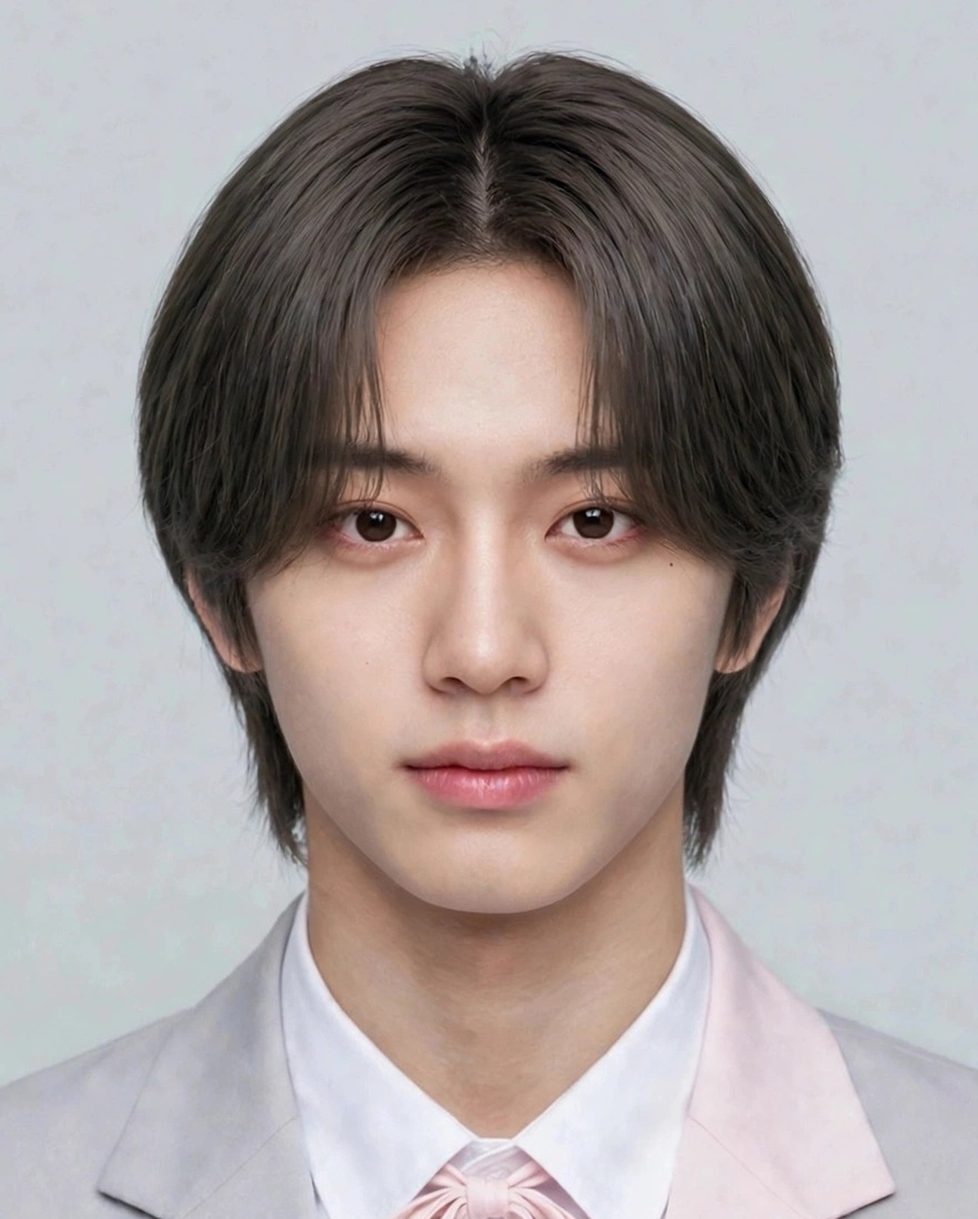
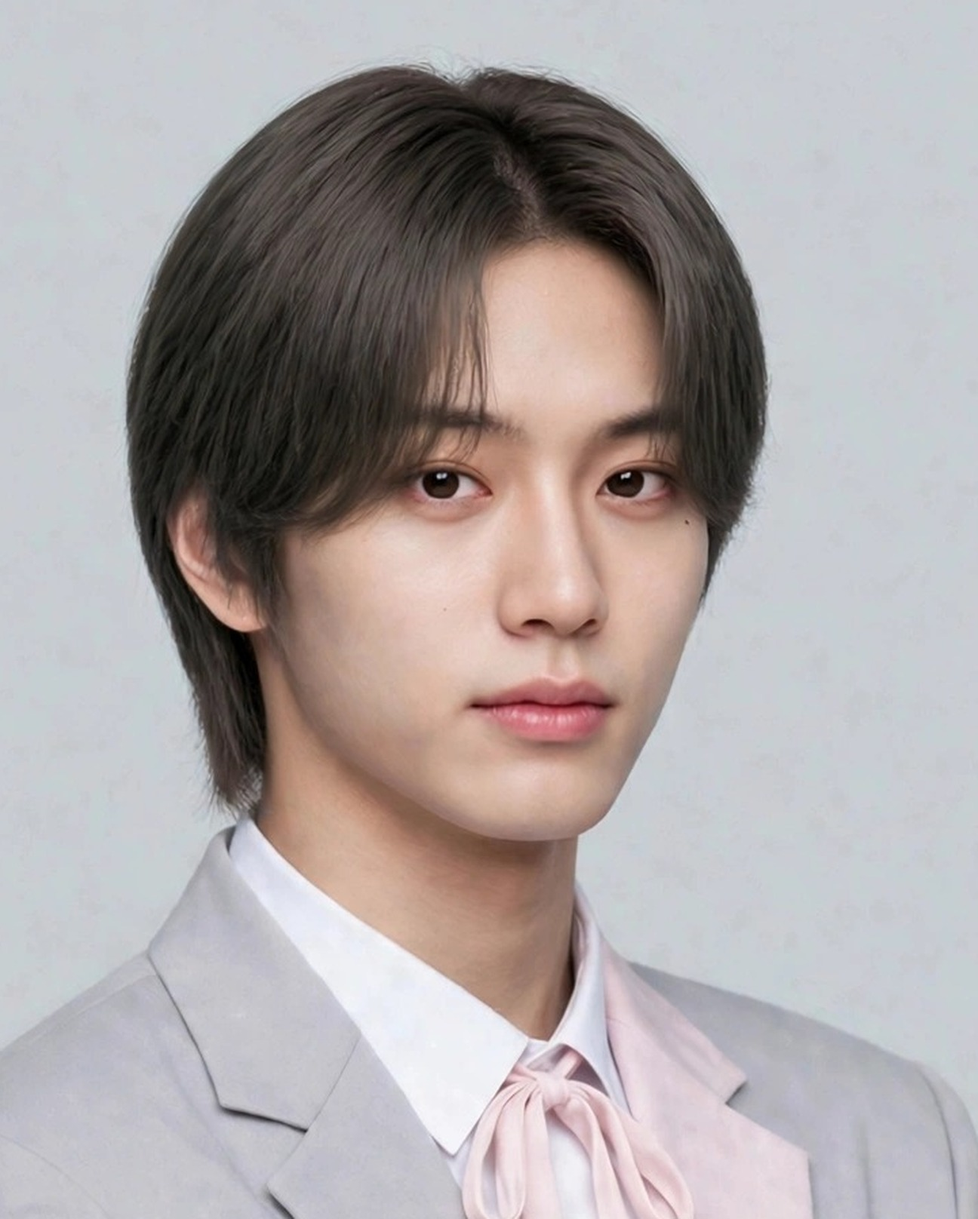
v152: 全時代のプロフィールをポーズ付きに作り直し（2019=ガッツポーズ全身／2021=頬ハート膝上／2023=腕組みウエスト上）。顔は新基準ラインを維持、寄りクロップ6点も新全身から頭部57〜60%で再作成。旧画像は hidden_files/nao-pose-backup/ に保管

diff --git a/index.html b/index.html
@@ -732,7 +732,7 @@ body{font-family:-apple-system,"Hiragino Kaku Gothic ProN","Noto Sans JP",sans-s
 <script>
 "use strict";
 const $=s=>document.querySelector(s);
-const VER="v151";
+const VER="v152";
 /* ============ state ============ */
 const DEF={idx:0,started:false,consented:false,soundOn:true,
  g:{iwakan:0,bare:0,todoita:0,uta:8,dance:4,ishi:50},
@@ -2472,7 +2472,7 @@ function renderSettings(tab){setTab=tab;document.querySelectorAll("#set-tabs but
  <div class="srow"><span>到達した結末</span><span class="sv">${S.trueEnd?"TRUE END ― 現在":S.normalEnd?"END ― 通常現在":S.loopBad?"BAD END ― ループ継続":S.bareEnd?"END ― 秘密バレIF":S.ridatsuEnd?"END ― 離脱した現在":"（まだ到達していません）"}</span></div>
  <div class="srow"><span>サウンド</span><span class="sv"><button id="snd-btn" style="background:${S.soundOn!==false?"#17172a":"#c6c6d4"};color:#fff;border:none;border-radius:999px;padding:6px 18px;font-size:12.5px;font-weight:700;cursor:pointer">${S.soundOn!==false?"ON":"OFF"}</button></span></div>
  <div class="srow"><span>フィクション</span><span class="sv">実在の記録をもとにした創作です</span></div>
- <div class="srow"><span>アップデート</span><span class="sv">v16 サウンドと画面遷移／v17 差分再演REPLAYとDiff時代別表示／v18 現在の小さな変化／v19 トークのスレッドとフリーチャット／v20・v23・v32 場面カットの追加／v21 日常回（食堂の夜・売店の夜）／v22 番組アプリの情報デザイン／v24 ホーム背景の時代連動と進行％／v25 タイトルのスライドショー／v26 彼の画面のカウンタ／v27 ロック画面の通知スタック／v28 写真の全画面ビューア／v30 章ごとの記録カード／v31 フィナーレ直前の彼の視点／v33 フリーチャットの時代別応答／v34 投票レシート／v35 ミッション進捗バー／v36 ゲージの危険域表示／v37 選んだ記録の判別表示／v38 台帳の時代別表示／v39 Keepsakeの時代バッジ／v41 章名つきロック画面／v42 トークの新着バッジ／v43 名簿の詳細パネル／v44 写真のスワイプ送り／v45 BGMの時代連動／v46 順位・差分の専用SE／v47 長押し早送り／v48 章セレクト／v50 REPLAY再演の追加／v52 日常回（コンビニの夜）／v53 タイトル通知のセーブ連動／v54 アプリアイコンのバッジ／v55 主人公の正式名「三浦渚央」と2019プロフィールの新フェイス差し替え／v56〜v59 プロフィール・場面カットの新フェイス再生成／v60 カード画角の統一（頭部55〜60%）と三浦渚央の順位表示／v61 名簿メモへの順位追記と凡例／v62 周B順位発表の彼の視点／v63 ストーリーバナーのサムネ時代連動／v64 タイトルに正式名／v65 ロック画面に順位通知／v66 情報タブに順位の記録／v67 順位行の文字色修正／v68 現在の小さな変化（順位の残響）／v69 写真メモに順位結果／v70 節目 ― 全アプリ走査／v71 フリーチャットの話題追加／v72 トークのチップ追加／v73・v74 順位タブの空状態整理／v75 順位変動のDiff記録／v76 節目 ― 全アプリ走査／v77 2021周A・初回ステージ後に彼の画面を追加／v78 2023周A・ファンカム章に彼の視点（インライン）を追加／v79 2019周A・順位発表式に彼の視点（インライン）を追加／v80 2023周A・VERY NICE本番前に彼の視点（インライン）を追加／v81 2023周A・寮の夜に彼の視点（インライン）を追加／v82 2019周A・届くはずのなかった手紙に彼の視点（インライン）を追加／v83 フリーチャットの話題拡充（2019専用プール＋新キーワード6種＋チップ追加）／v84 周Aの彼の記憶の線引きで全監査（2021・2023到着場面と彼の画面3件を連続した同僚の前提に書き換え）／v85 2019周A・練習室の夜に彼の視点（インライン）を追加／v86 2021周A・寮の一夜に彼の視点（インライン）を追加／v87 2023周A・コンビニの夜に彼の視点（インライン）を追加／v88 台帳・Keepsake・Diffの時代分類を修正（NXD期グループ新設、誤分類6件を是正）／v89 場面カット追加（2023順位発表の夜・face2基準で新規生成）／v90 場面カット追加（2021ファイナルの夜・face2基準で新規生成）／v91 節目 ― 全アプリ走査／v92 日常回「自販機の夜」（2023・周B）を追加／v93 2019周A・レベル分け評価に彼の視点（インライン）を追加／v94 写真アプリに時代別グルーピング（見出し＋枚数）を追加／v95 場面カット追加（NXD期・夜の練習室、face2基準で新規生成）／v96 フリーチャットの時代別プールを拡充（各時代＋2件）／v97 2019周B・発覚に彼の視点（インライン）を追加／v98 2021周B・再会に彼の視点（インライン）を追加／v99 2023周B・発覚に彼の視点（インライン）を追加／v100 節目 ― 全編通しプレイ検証／v101 効果音の配線追加（台帳・Keepsake・彼の視点）／v102 トークに彼のメッセージを3件追加／v103 タイトルのスライドショー拡充（8枚）とホーム背景のNXD期差し替え／v104 2023周B・再会に彼の視点（インライン）を追加／v105 2021周B・売店の夜に彼の視点（インライン）を追加／v106 NXD期・周B「移籍の決断」に彼の視点（インライン）を追加／v107 2023周B・共同作戦に彼の視点（インライン）を追加／v108 2019周B・共同作戦（ツカメ対策）に彼の視点（インライン）を追加／v109 2021周B・共同作戦に彼の視点（インライン）を追加／v110 NXD期・周B「延期の季節 ― 二度目」に彼の視点（インライン）を追加／v111 フリーチャット拡充（キーワード応答3種・チップ2件・現在編プール拡充）／v112 節目 ― 全アプリ走査／v113 2023周B・自販機の夜に彼の視点（インライン）を追加／v114 2019周A・食堂の夜に彼の視点（インライン）を追加／v115 2021周B・順位発表の締めに彼の視点（インライン）を追加／v116 設計ドキュメントの実装状況を更新／v117 場面カット追加（2019食堂の夜・face2基準で新規生成）／v118 場面カット追加（2021売店の夜・face2基準で新規生成）／v119 場面カット追加（2023コンビニの夜・face2基準で新規生成）／v120 背景の差し替え（現在編の冒頭とソロデビューの場面）／v121 節目 ― 全編通しプレイ検証（v101〜v120の追加後）／v122 画像出典メモ（IMAGE_SOURCES.md）に新規カット6点とface2基準を追記／v123 READMEの状態表記を現行（本編完結・公開中）に更新／v124 視覚QAで発見した順位タブの防御的修正（順位値の欠損時に最低ラインへフォールバック）／v125 節目 ― 全画面の視覚QA（撮影確認）／v126 節目 ― 別エンディング到達検証（秘密バレIF・離脱した現在）／v127 節目 ― 全5エンディング到達検証の完了（通常現在・ループ継続BADを追加確認）／v128 設計ドキュメントの実装状況に最終検証結果を追記／v129 READMEの現行版表記を更新／v130 生成メタファイルを .gitignore に追加して作業ツリーを整理／v131 「届くはずのなかった手紙」に背景を設定（食堂カットの引き継ぎを解消）／v132 フリーチャットの応答拡充（キーワード応答8種・時代別プール各+2件・チップ2件を追加）／v133 仕上げのUI調整（ホームのアプリアイコンのラベルの可読性を向上、ストーリー画面のゲージチップを均等な3+3配置に整形）／v134 フリーチャットに語学の話題を追加（中国語・韓国語・英語へのキーワード応答）／v135 節目 ― 朝まで改修の最終版（全アプリ走査・ドキュメント同期）／v136 トークを実物化（1相手=1スレッドに集約・未読バッジ・プレビュー・実物時刻・日付チップ・自分の送信への既読表示。仕組みは『現役アイドル、Tinderやってた件』のLINEと『キープ管理中！』の未読管理から移植）／v137 2021・2023の渚央プロフィールを制服版に統一（創造営の紺制服／ボイプラの淡グレー制服。名簿・順位・パネル・背景・写真の参照を全て profile-uniform 系へ）／v138 ロック画面とホームの実物化（主通知の送信者を実アプリ名にし未読トークがあれば最新メッセージを表示、日付を月日＋曜日の実物形式に、ホームと写真の操作説明文を撤去）／v139 トークをTinder版（v462）LINEと実測比較して一致（バブルの角・色・文字サイズ、入力欄、送信ボタン、日付チップ、一覧の行構成と検索ボックス、スレッドヘッダーのアバター）／v140 トークにLINEアプリのシェルを移植（下部タブバー＋タブ画面を新設。タブの数・並び・切替挙動はTinder版LINEと同一で、ホームタブは三浦渚央のプロフィール＋届いた応援カード＋友だちリストのパネル、ニュースは番組アプリ、その他は設定・記録へ接続）／v141 ロック画面の進化（時計を88px・太字に、通知カードをblur20px＋saturateの実物仕様にして幅を統一、スタック通知のアイコンをアプリ別SVGに分けて出現をスタッガード化。ステータスバーと電池％を追加し、壁紙を時代連動＋緩やかなズームに。下部のライトは白フラッシュが光る実働ボタンに、カメラは写真アプリへ直行。通知はタップで該当アプリ・記録へ遷移）／v142 ホーム画面の進化（Tinder版ホームのページ構成を移植：飾りだったドットを実働の2ページ化にし、横スワイプとドットタップで切替。2ページ目に物語暦のカレンダーウィジェットと時代のカットが切り替わる写真ウィジェットを新設し、記録サマリと次のミッションを移設。ドットの横に検索ピルを追加し、アプリ・記録を検索して直接開けるシートを実装。下部にガラスのドック（トーク／写真／番組アプリ／設定・記録、バッジ連動）を追加。ステータスバーに電池％、壁紙に緩やかなズーム）／v143 ロック画面の通知スタックの隙間を修正（ベースCSSの上マージン34pxがスタック内の通知にも効いて間隔が42pxに広がっていたのを、実物どおり8pxに統一。あわせて通知領域を時計の下〜下部ボタンの上のスクロール領域にして、通知が多くてもライト／カメラのボタンやヒント文字に重ならないようにした）／v144 写真アプリの進化（『現役アイドル、Tinderやってた件』の写真アプリから移植：2列カード型だったグリッドを3列・隙間2px・正方形の実物仕様にし、時代見出し＋枚数のヘッダーと上部のピル型タブ（すべて／時代別で絞り込み）を新設。ビューアはお気に入り（セーブに保持、グリッドにもハート表示）とスライドショーを追加し、送りを循環式から端で止まるクランプ式に変更、キャプション＋差分メモ＋時代＋通し番号のメタ表示とキー操作に対応。複数選択モード（最大4枚）からコラージュを作成でき、ロック画面の壁紙にも設定できる（時代連動に戻す導線つき）。中身の時代別カットと枚数は従来どおり）／v145 アプリアイコンをTinder版の様式に統一（アイコンを全面SVG化し、背景レイヤーまで1枚に収める方式へ。トーク＝LINE・写真・設定・記録はTinder版と同型のアイコンに、番組アプリは金の縦グラデーション＋王冠のグリフで同水準に。アイコンの角丸と影もTinder版の実測値に一致。あわせてラベル用ピルのCSSがドックのアイコンにも漏れて円形になっていた不具合を修正し、ドックでもグリッドと同じ角丸アイコンが並ぶようにした）／v147 渚央の顔を最終基準（本人の写真由来の顔＋クールな髪型）へ差し替え開始。2023編のプロフィール（基準画像そのものへ差し替え、カード用クロップも新基準で作成）と場面カット全8点を基準顔で再生成／v148 2021編を新基準へ差し替え（プロフィールは19歳相当＋創造営制服＋屋外背景で新規生成、カード用クロップも作成。場面カット5点＝daily／practice／ranking-close／study／shop-nightを19歳相当の基準顔で再生成。stageは次版で差し替え予定）／v149 2019編を新基準へ全面差し替え（プロフィールは17歳相当で再生成し直し、カード用クロップも新規作成。場面カット7点＝stage／stage2／dorm／practice／ranking-close／selfie／cafeteriaを17歳相当の基準顔で再生成）。リンクプレビュー用のog:image（新stageから作成）も新設／v150 旧素材（候補ファイル群・旧プロフィール）を保管庫へ退避し、顔素材を新基準のラインに統一（表示内容の変更なし）</span></div>
+ <div class="srow"><span>アップデート</span><span class="sv">v16 サウンドと画面遷移／v17 差分再演REPLAYとDiff時代別表示／v18 現在の小さな変化／v19 トークのスレッドとフリーチャット／v20・v23・v32 場面カットの追加／v21 日常回（食堂の夜・売店の夜）／v22 番組アプリの情報デザイン／v24 ホーム背景の時代連動と進行％／v25 タイトルのスライドショー／v26 彼の画面のカウンタ／v27 ロック画面の通知スタック／v28 写真の全画面ビューア／v30 章ごとの記録カード／v31 フィナーレ直前の彼の視点／v33 フリーチャットの時代別応答／v34 投票レシート／v35 ミッション進捗バー／v36 ゲージの危険域表示／v37 選んだ記録の判別表示／v38 台帳の時代別表示／v39 Keepsakeの時代バッジ／v41 章名つきロック画面／v42 トークの新着バッジ／v43 名簿の詳細パネル／v44 写真のスワイプ送り／v45 BGMの時代連動／v46 順位・差分の専用SE／v47 長押し早送り／v48 章セレクト／v50 REPLAY再演の追加／v52 日常回（コンビニの夜）／v53 タイトル通知のセーブ連動／v54 アプリアイコンのバッジ／v55 主人公の正式名「三浦渚央」と2019プロフィールの新フェイス差し替え／v56〜v59 プロフィール・場面カットの新フェイス再生成／v60 カード画角の統一（頭部55〜60%）と三浦渚央の順位表示／v61 名簿メモへの順位追記と凡例／v62 周B順位発表の彼の視点／v63 ストーリーバナーのサムネ時代連動／v64 タイトルに正式名／v65 ロック画面に順位通知／v66 情報タブに順位の記録／v67 順位行の文字色修正／v68 現在の小さな変化（順位の残響）／v69 写真メモに順位結果／v70 節目 ― 全アプリ走査／v71 フリーチャットの話題追加／v72 トークのチップ追加／v73・v74 順位タブの空状態整理／v75 順位変動のDiff記録／v76 節目 ― 全アプリ走査／v77 2021周A・初回ステージ後に彼の画面を追加／v78 2023周A・ファンカム章に彼の視点（インライン）を追加／v79 2019周A・順位発表式に彼の視点（インライン）を追加／v80 2023周A・VERY NICE本番前に彼の視点（インライン）を追加／v81 2023周A・寮の夜に彼の視点（インライン）を追加／v82 2019周A・届くはずのなかった手紙に彼の視点（インライン）を追加／v83 フリーチャットの話題拡充（2019専用プール＋新キーワード6種＋チップ追加）／v84 周Aの彼の記憶の線引きで全監査（2021・2023到着場面と彼の画面3件を連続した同僚の前提に書き換え）／v85 2019周A・練習室の夜に彼の視点（インライン）を追加／v86 2021周A・寮の一夜に彼の視点（インライン）を追加／v87 2023周A・コンビニの夜に彼の視点（インライン）を追加／v88 台帳・Keepsake・Diffの時代分類を修正（NXD期グループ新設、誤分類6件を是正）／v89 場面カット追加（2023順位発表の夜・face2基準で新規生成）／v90 場面カット追加（2021ファイナルの夜・face2基準で新規生成）／v91 節目 ― 全アプリ走査／v92 日常回「自販機の夜」（2023・周B）を追加／v93 2019周A・レベル分け評価に彼の視点（インライン）を追加／v94 写真アプリに時代別グルーピング（見出し＋枚数）を追加／v95 場面カット追加（NXD期・夜の練習室、face2基準で新規生成）／v96 フリーチャットの時代別プールを拡充（各時代＋2件）／v97 2019周B・発覚に彼の視点（インライン）を追加／v98 2021周B・再会に彼の視点（インライン）を追加／v99 2023周B・発覚に彼の視点（インライン）を追加／v100 節目 ― 全編通しプレイ検証／v101 効果音の配線追加（台帳・Keepsake・彼の視点）／v102 トークに彼のメッセージを3件追加／v103 タイトルのスライドショー拡充（8枚）とホーム背景のNXD期差し替え／v104 2023周B・再会に彼の視点（インライン）を追加／v105 2021周B・売店の夜に彼の視点（インライン）を追加／v106 NXD期・周B「移籍の決断」に彼の視点（インライン）を追加／v107 2023周B・共同作戦に彼の視点（インライン）を追加／v108 2019周B・共同作戦（ツカメ対策）に彼の視点（インライン）を追加／v109 2021周B・共同作戦に彼の視点（インライン）を追加／v110 NXD期・周B「延期の季節 ― 二度目」に彼の視点（インライン）を追加／v111 フリーチャット拡充（キーワード応答3種・チップ2件・現在編プール拡充）／v112 節目 ― 全アプリ走査／v113 2023周B・自販機の夜に彼の視点（インライン）を追加／v114 2019周A・食堂の夜に彼の視点（インライン）を追加／v115 2021周B・順位発表の締めに彼の視点（インライン）を追加／v116 設計ドキュメントの実装状況を更新／v117 場面カット追加（2019食堂の夜・face2基準で新規生成）／v118 場面カット追加（2021売店の夜・face2基準で新規生成）／v119 場面カット追加（2023コンビニの夜・face2基準で新規生成）／v120 背景の差し替え（現在編の冒頭とソロデビューの場面）／v121 節目 ― 全編通しプレイ検証（v101〜v120の追加後）／v122 画像出典メモ（IMAGE_SOURCES.md）に新規カット6点とface2基準を追記／v123 READMEの状態表記を現行（本編完結・公開中）に更新／v124 視覚QAで発見した順位タブの防御的修正（順位値の欠損時に最低ラインへフォールバック）／v125 節目 ― 全画面の視覚QA（撮影確認）／v126 節目 ― 別エンディング到達検証（秘密バレIF・離脱した現在）／v127 節目 ― 全5エンディング到達検証の完了（通常現在・ループ継続BADを追加確認）／v128 設計ドキュメントの実装状況に最終検証結果を追記／v129 READMEの現行版表記を更新／v130 生成メタファイルを .gitignore に追加して作業ツリーを整理／v131 「届くはずのなかった手紙」に背景を設定（食堂カットの引き継ぎを解消）／v132 フリーチャットの応答拡充（キーワード応答8種・時代別プール各+2件・チップ2件を追加）／v133 仕上げのUI調整（ホームのアプリアイコンのラベルの可読性を向上、ストーリー画面のゲージチップを均等な3+3配置に整形）／v134 フリーチャットに語学の話題を追加（中国語・韓国語・英語へのキーワード応答）／v135 節目 ― 朝まで改修の最終版（全アプリ走査・ドキュメント同期）／v136 トークを実物化（1相手=1スレッドに集約・未読バッジ・プレビュー・実物時刻・日付チップ・自分の送信への既読表示。仕組みは『現役アイドル、Tinderやってた件』のLINEと『キープ管理中！』の未読管理から移植）／v137 2021・2023の渚央プロフィールを制服版に統一（創造営の紺制服／ボイプラの淡グレー制服。名簿・順位・パネル・背景・写真の参照を全て profile-uniform 系へ）／v138 ロック画面とホームの実物化（主通知の送信者を実アプリ名にし未読トークがあれば最新メッセージを表示、日付を月日＋曜日の実物形式に、ホームと写真の操作説明文を撤去）／v139 トークをTinder版（v462）LINEと実測比較して一致（バブルの角・色・文字サイズ、入力欄、送信ボタン、日付チップ、一覧の行構成と検索ボックス、スレッドヘッダーのアバター）／v140 トークにLINEアプリのシェルを移植（下部タブバー＋タブ画面を新設。タブの数・並び・切替挙動はTinder版LINEと同一で、ホームタブは三浦渚央のプロフィール＋届いた応援カード＋友だちリストのパネル、ニュースは番組アプリ、その他は設定・記録へ接続）／v141 ロック画面の進化（時計を88px・太字に、通知カードをblur20px＋saturateの実物仕様にして幅を統一、スタック通知のアイコンをアプリ別SVGに分けて出現をスタッガード化。ステータスバーと電池％を追加し、壁紙を時代連動＋緩やかなズームに。下部のライトは白フラッシュが光る実働ボタンに、カメラは写真アプリへ直行。通知はタップで該当アプリ・記録へ遷移）／v142 ホーム画面の進化（Tinder版ホームのページ構成を移植：飾りだったドットを実働の2ページ化にし、横スワイプとドットタップで切替。2ページ目に物語暦のカレンダーウィジェットと時代のカットが切り替わる写真ウィジェットを新設し、記録サマリと次のミッションを移設。ドットの横に検索ピルを追加し、アプリ・記録を検索して直接開けるシートを実装。下部にガラスのドック（トーク／写真／番組アプリ／設定・記録、バッジ連動）を追加。ステータスバーに電池％、壁紙に緩やかなズーム）／v143 ロック画面の通知スタックの隙間を修正（ベースCSSの上マージン34pxがスタック内の通知にも効いて間隔が42pxに広がっていたのを、実物どおり8pxに統一。あわせて通知領域を時計の下〜下部ボタンの上のスクロール領域にして、通知が多くてもライト／カメラのボタンやヒント文字に重ならないようにした）／v144 写真アプリの進化（『現役アイドル、Tinderやってた件』の写真アプリから移植：2列カード型だったグリッドを3列・隙間2px・正方形の実物仕様にし、時代見出し＋枚数のヘッダーと上部のピル型タブ（すべて／時代別で絞り込み）を新設。ビューアはお気に入り（セーブに保持、グリッドにもハート表示）とスライドショーを追加し、送りを循環式から端で止まるクランプ式に変更、キャプション＋差分メモ＋時代＋通し番号のメタ表示とキー操作に対応。複数選択モード（最大4枚）からコラージュを作成でき、ロック画面の壁紙にも設定できる（時代連動に戻す導線つき）。中身の時代別カットと枚数は従来どおり）／v145 アプリアイコンをTinder版の様式に統一（アイコンを全面SVG化し、背景レイヤーまで1枚に収める方式へ。トーク＝LINE・写真・設定・記録はTinder版と同型のアイコンに、番組アプリは金の縦グラデーション＋王冠のグリフで同水準に。アイコンの角丸と影もTinder版の実測値に一致。あわせてラベル用ピルのCSSがドックのアイコンにも漏れて円形になっていた不具合を修正し、ドックでもグリッドと同じ角丸アイコンが並ぶようにした）／v147 渚央の顔を最終基準（本人の写真由来の顔＋クールな髪型）へ差し替え開始。2023編のプロフィール（基準画像そのものへ差し替え、カード用クロップも新基準で作成）と場面カット全8点を基準顔で再生成／v148 2021編を新基準へ差し替え（プロフィールは19歳相当＋創造営制服＋屋外背景で新規生成、カード用クロップも作成。場面カット5点＝daily／practice／ranking-close／study／shop-nightを19歳相当の基準顔で再生成。stageは次版で差し替え予定）／v149 2019編を新基準へ全面差し替え（プロフィールは17歳相当で再生成し直し、カード用クロップも新規作成。場面カット7点＝stage／stage2／dorm／practice／ranking-close／selfie／cafeteriaを17歳相当の基準顔で再生成）。リンクプレビュー用のog:image（新stageから作成）も新設／v150 旧素材（候補ファイル群・旧プロフィール）を保管庫へ退避し、顔素材を新基準のラインに統一（表示内容の変更なし）／v151 2021のステージカットを新顔基準（19歳版）で差し替え、顔の全面差し替えが完了／v152 全時代のプロフィールをポーズ付きに作り直し（2019＝ガッツポーズの全身ショット、2021＝頬ハートの膝上ショット、2023＝腕組みのウエスト上ショット。顔は新基準のラインを維持し、寄りクロップも新しい全身から作り直し）</span></div>
  <div class="pad"><p class="small">エンディングは5種（TRUE現在／通常現在／離脱した現在／秘密バレIF／ループ継続BAD）。結末は、彼の岐路での関わり・手がかり（Keepsakeと届いた数）・男装バレ度・最後の選択で分かれます。なお「デビューしてしまう現在」はIF候補として設計にのみ記録され、本編では採用していません（デビューメンバー構成は不変のため）。</p></div>
  <div class="pad"><button class="btn" id="reset-btn" style="background:#ff3b30">データを消して最初から</button></div>`;
  const rb=$("#reset-btn");if(rb)rb.onclick=()=>{if(confirm("セーブデータを消して最初から始めますか？")){localStorage.removeItem("tlSaveV2");location.reload();}};

diff --git a/docs/ASSETS_NAO.md b/docs/ASSETS_NAO.md
@@ -109,3 +109,11 @@
 
 ## 2026-11-09 v151 残件解消
 - 2021/stage.jpg（タイトル3枚目・2021時代のロック壁紙）を基準顔の19歳版で差し替え。これで顔が出る全素材の新基準化が完了。
+
+## 2026-11-09 v152 プロフィールのポーズ作り直し（本人の指摘「棒立ちすぎる。他のメンバーみたいにポーズをとって」）
+- 2019 profile-face3b-full：全身ショットに変更。片手を高く上げたガッツポーズ＋片手は腰、明るい笑顔。日プ制服・名札・ロゴは維持
+- 2021 profile-uniform：膝上ショットに変更。体を斜めに、頬の近くで指ハート（頬ハート）、柔らかい笑顔。創造営の紺制服＋屋外（島・海）背景は維持
+- 2023 profile-uniform：ウエスト上に変更。体を少し斜めに腕組みのクールなポーズ。片襟ピンク＋リボンタイは維持。生成は standard-final の生成セッションを resume する方式で顔の同一性を確保（ポーズ変更だけを指示）
+- 寄りクロップ6点（各時代2種）も新しい全身から頭部57〜60%で作り直し
+- 旧プロフィール・旧クロップは hidden_files/nao-pose-backup/{2019,2021,2023}/ に保管
+- standard-final.jpg 自体は顔基準の原典として変更なし
